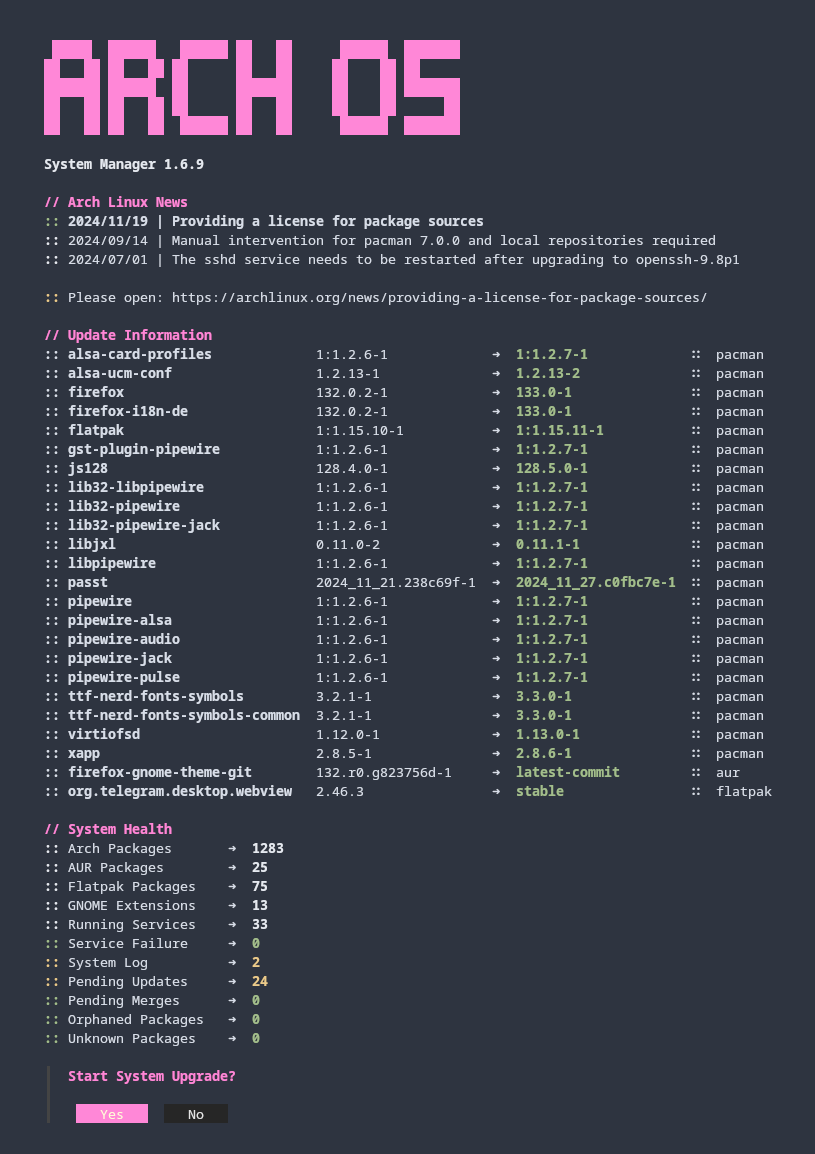
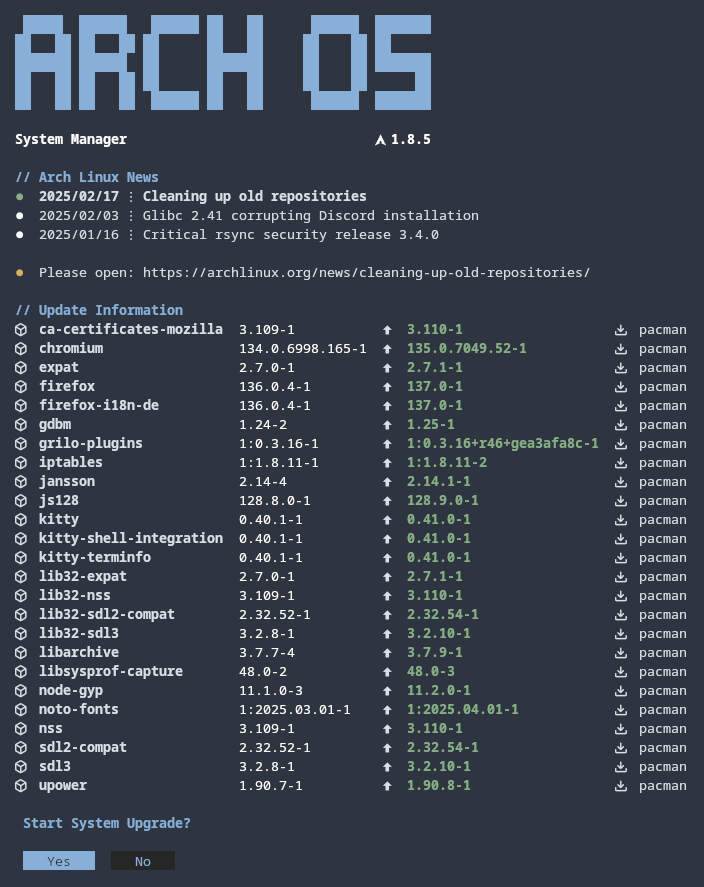
1.8.5
* new color
* kitty version
* docs

Changed region(s): [[0.0, 0.0, 0.9688, 1.0], [0.4062, 0.0, 0.625, 0.1218]]

diff --git a/docs/README.md b/docs/README.md
@@ -169,7 +169,9 @@ Paru is preconfigured in `/etc/paru.conf`. Old configurations are copied to `/et
 Edit the config with the built-in editor in Arch OS Manager or edit the config file manually.
 
 ```
-CONTENT_MAX_WIDTH=110                 # Cut text after width in packages & logs (min: 50)
+COLOR_FOREGROUND=110                  # Color foreground (see color chart)
+COLOR_BACKGROUND=236                  # Color background (see color chart)
+CONTENT_MAX_WIDTH=110                 # Cut text after width in packages & logs (min: 80)
 CONTENT_MAX_HEIGHT=16                 # Max lines in packages & downgrade (max: 100)
 REFLECTOR_COUNTRY=none                # Set prefered reflector country (example: Germany,France)
 ARCH_UPGRADE_CONFIRM=true             # Enable confirm upgrade system packages (experimental) (disable: false)
@@ -192,6 +194,16 @@ DASHBOARD_SHOW_SERVICES=true          # Show running services in dashboard (disa
 DASHBOARD_SHOW_USER_SERVICES=false    # Show user services in dashboard & health (enable: true)
 DASHBOARD_SHOW_TIMESTAMP=true         # Show local databse timestamp (disable: false)
 ```
+
+<details>
+
+<summary style="font-weight: bold;" id="color-chart">Color Chart</summary>
+
+<p><img src="./color-chart.png"></p>
+
+Source: [Link](https://github.com/muesli/termenv?tab=readme-ov-file#color-chart)
+
+</details>
 
 ### Configuration Files
 
@@ -221,22 +233,28 @@ dconf write /org/gnome/shell/extensions/arch-update/update-cmd "'arch-os --kitty
 dconf write /org/gnome/shell/extensions/arch-update/package-manager "'arch-os --kitty'"
 ```
 
-<div align="center">
+<details>
 
-## Screenshots
+<summary><h2 style="display: inline;" id="screenshots">Screenshots</h2></summary>
+
+<div align="center">
 
 <sub><b>This screenshots may outdated.</b></sub>
 
+
 <p><img src="./screenshots/notification.png"></p>
-<p><img src="./screenshots/upgrade.png"></p>
 <p><img src="./screenshots/dashboard.png"></p>
-<p><img src="./screenshots/pkg.png"></p>
-<p><img src="./screenshots/refresh.png"></p>
-<p><img src="./screenshots/uptodate.png"></p>
+<p><img src="./screenshots/health.png"></p>
+<p><img src="./screenshots/upgrade.png"></p>
+<p><img src="./screenshots/package.png"></p>
 
 </div>
 
-## Development
+</details>
+
+<details>
+
+<summary><h2 style="display: inline;" id="development">Development</h2></summary>
 
 ```
 # Start with custom binaries (gum & kitty)
@@ -252,7 +270,11 @@ GUM=/my/custom/gum KITTY=/my/custom/kitty ./arch-os
 ./arch-os --sync
 ```
 
-## Credits
+</details>
+
+<details>
+
+<summary><h2 style="display: inline;" id="credits">Credits</h2></summary>
 
 - https://www.nerdfonts.com/cheat-sheet
 - https://github.com/RaphaelRochet/arch-update
@@ -262,3 +284,5 @@ GUM=/my/custom/gum KITTY=/my/custom/kitty ./arch-os
 - https://github.com/archlinux-downgrade/downgrade
 - https://meldmerge.org
 - https://archlinux.org
+
+</details>
